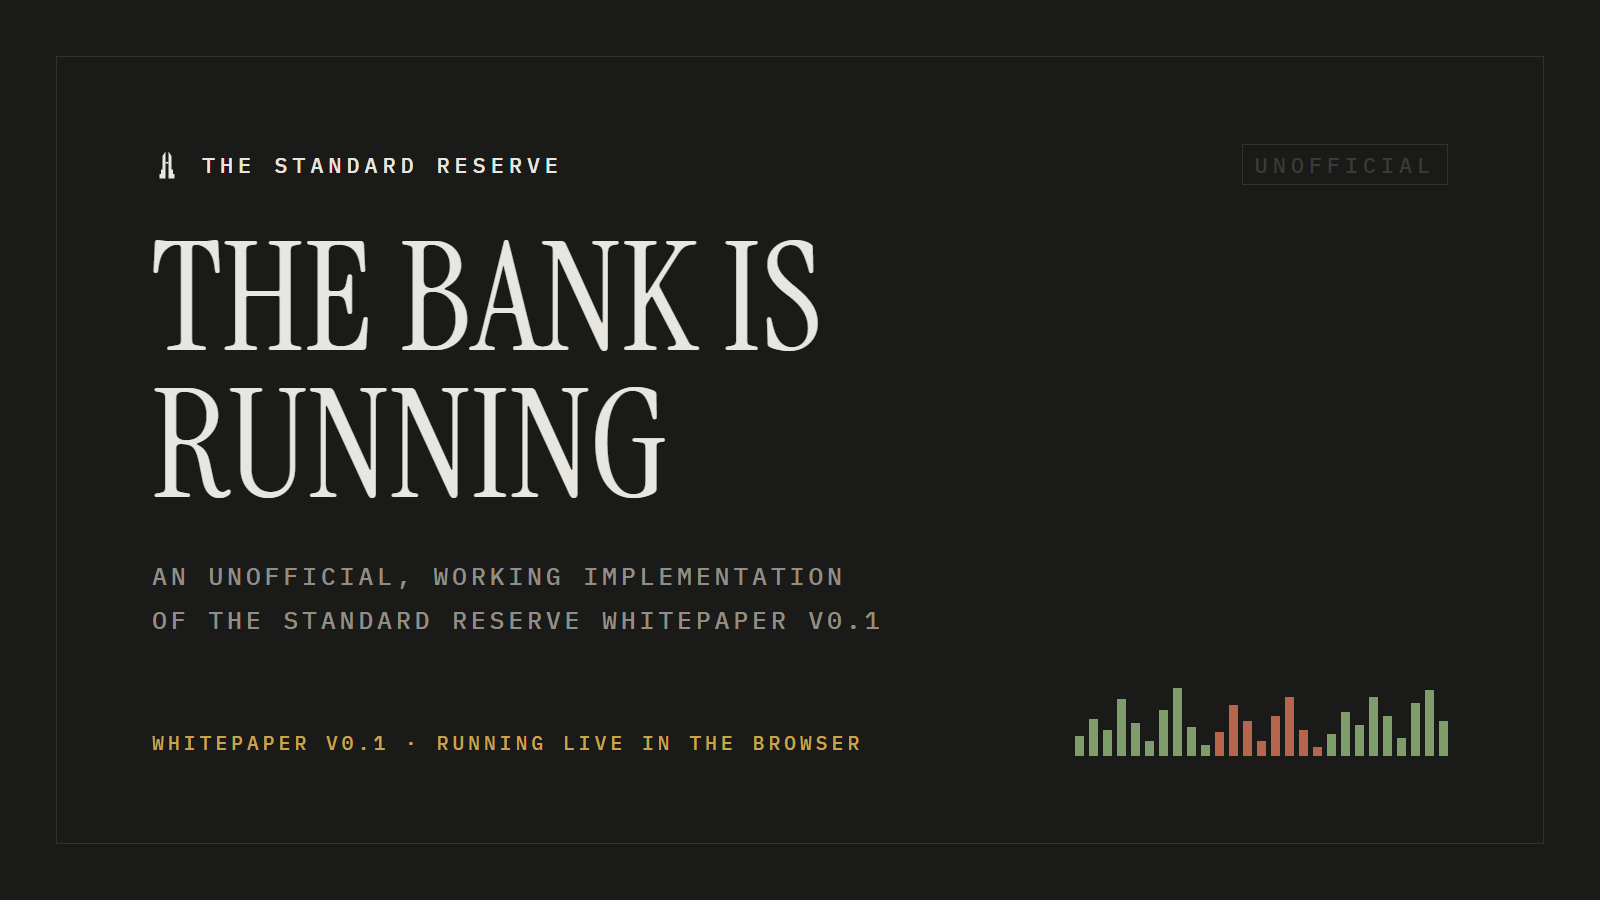
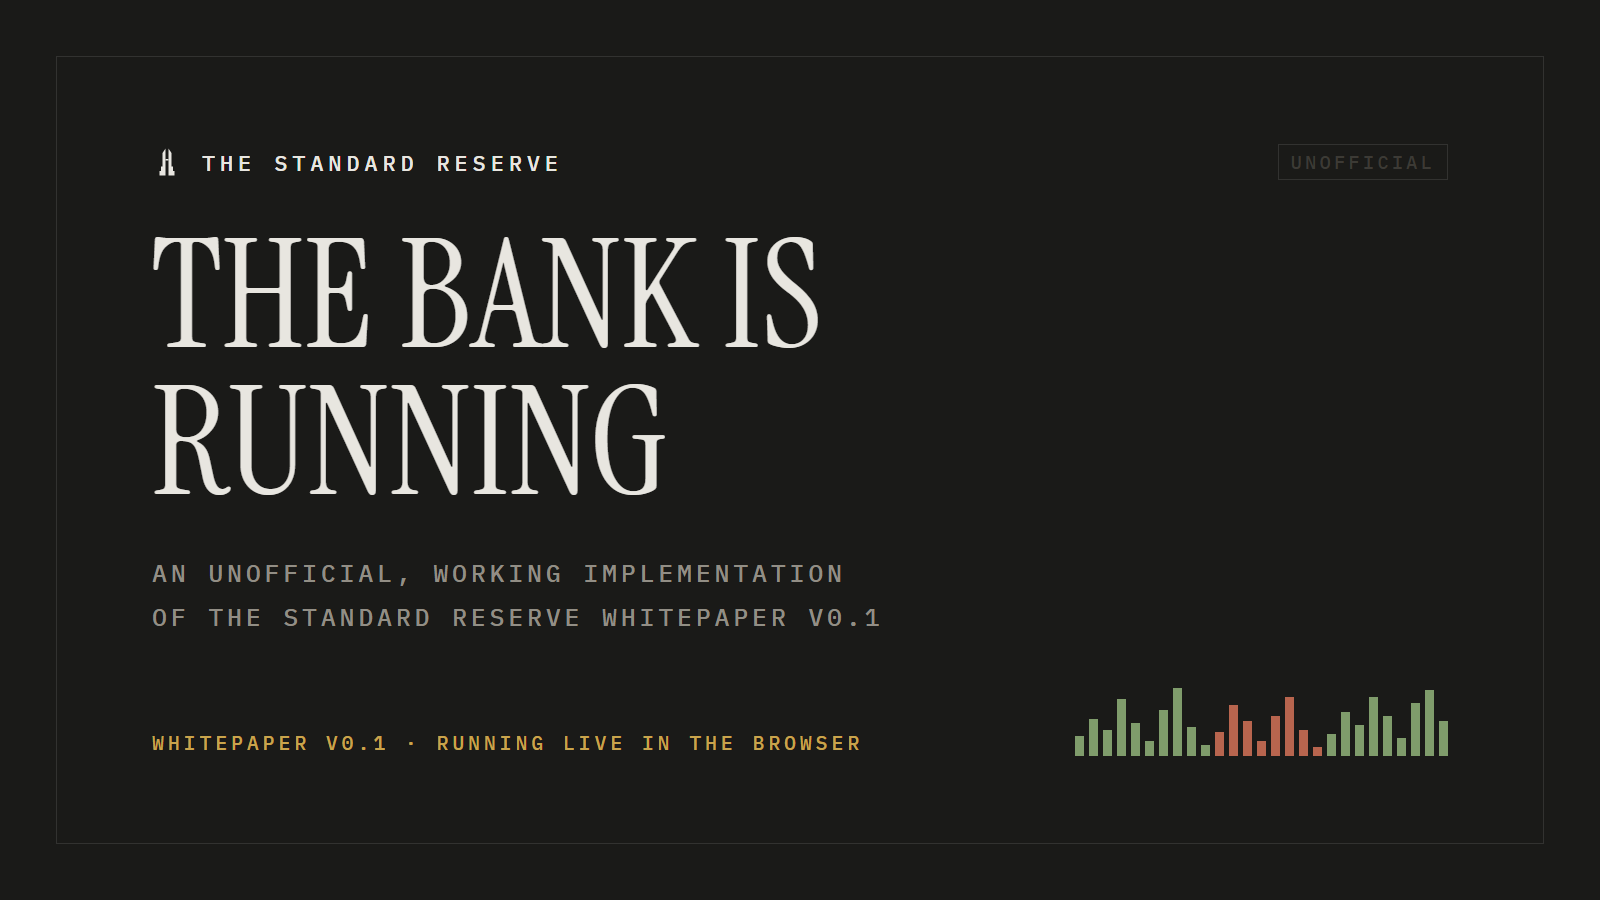
Make the share card reproducible, and put the font caching rule on record
The card was generated from a scratch file that lived outside the repository,
so nothing here could regenerate it and no evidence survived about which
monospace it had used. Its source did declare IBM Plex Mono, but the only
assertion at generation time covered the serif, which is not proof.

The generator is now `scripts/og.ts`. It reads the two families from
`public/fonts`, inlines them as data URIs so the render cannot reach the
network or fall back silently, force loads every declared face rather than
waiting for a glyph to need one, and refuses to write the file unless all of
them are present and the rendered elements resolve to the right families. The
first run of that guard caught its own subtlety: the card sets no text at mono
400, so that face was never loaded and the check was false until the load was
forced.

Fonts are served unhashed and immutable for a year, which makes editing one in
place unfixable for anyone who already cached it. CLAUDE.md records the rule,
the three places a new filename has to be updated, and the byte sizes of the
four current files as a baseline that makes an in place edit visible.

diff --git a/scripts/og.ts b/scripts/og.ts
@@ -1,0 +1,131 @@
+/**
+ * Regenerates public/og.png, the card a shared link renders.
+ *
+ * Hermetic on purpose. The two faces are read from public/fonts and inlined as
+ * data URIs, so the render cannot silently fall back to a system font and does
+ * not touch the network. Both families are asserted before the screenshot is
+ * taken, because an earlier version of this asset was produced with only the
+ * serif checked and there was no way afterwards to prove which monospace had
+ * actually been used.
+ *
+ * Playwright is not a dependency of this project: it would make every install
+ * and every CI run download a browser for an image that changes almost never.
+ * Run this with playwright available, for example
+ *   npm i -D playwright && npx playwright install chromium && npm run og
+ * and then drop it again.
+ */
+import { readFileSync, writeFileSync } from 'node:fs';
+import { resolve } from 'node:path';
+
+const ROOT = resolve(import.meta.dirname, '..');
+const FONTS = resolve(ROOT, 'public/fonts');
+const OUT = resolve(ROOT, 'public/og.png');
+
+const WIDTH = 1600;
+const HEIGHT = 900;
+
+/** The exact faces the site itself serves. Keep in step with styles.css. */
+const FACES = [
+  { family: 'Instrument Serif', weight: 400, file: 'instrument-serif-400-latin.woff2' },
+  { family: 'IBM Plex Mono', weight: 400, file: 'ibm-plex-mono-400-latin.woff2' },
+  { family: 'IBM Plex Mono', weight: 500, file: 'ibm-plex-mono-500-latin.woff2' },
+] as const;
+
+function faceCss(): string {
+  return FACES.map(({ family, weight, file }) => {
+    const b64 = readFileSync(resolve(FONTS, file)).toString('base64');
+    return `@font-face{font-family:'${family}';font-style:normal;font-weight:${weight};src:url(data:font/woff2;base64,${b64}) format('woff2');}`;
+  }).join('\n');
+}
+
+/** Net flow bars, so the card says the thing runs rather than that it is a doc. */
+const BARS = [9, 17, 12, 26, 15, 7, 21, 31, 13, 5, -11, -23, -16, -7, -18, -27, -12, -4, 10, 20, 14, 27, 18, 8, 24, 30, 16];
+
+const MARK = `<svg width="30" height="30" viewBox="0 0 20 20" fill="#e8e6e0"><path d="M9 1 L7 4 L7 13 L6 13 L6 16 L5 16 L5 19 L9 19 Z"/><path d="M11 1 L13 4 L13 13 L14 13 L14 16 L15 16 L15 19 L11 19 Z"/><rect x="9" y="8" width="2" height="1"/></svg>`;
+
+function html(): string {
+  return `<!doctype html><html><head><meta charset="utf-8"><style>
+${faceCss()}
+*{box-sizing:border-box;margin:0}
+body{width:${WIDTH}px;height:${HEIGHT}px;background:#1a1a18;color:#e8e6e0;
+  font-family:'IBM Plex Mono',monospace;overflow:hidden;position:relative;
+  -webkit-font-smoothing:antialiased;text-rendering:optimizeLegibility;
+  font-variant-numeric:tabular-nums}
+.frame{position:absolute;inset:56px;border:1px solid rgba(232,230,224,.12)}
+.pad{position:absolute;inset:56px;padding:88px 96px;display:flex;flex-direction:column;justify-content:space-between}
+.top{display:flex;align-items:center;justify-content:space-between}
+.mark{display:flex;align-items:center;gap:20px}
+.mark svg{display:block}
+.mark span{font-size:22px;font-weight:500;letter-spacing:.22em}
+.tag{font-size:19px;font-weight:500;letter-spacing:.16em;color:#3c3a35;border:1px solid rgba(232,230,224,.12);padding:5px 12px}
+h1{font-family:'Instrument Serif',serif;font-weight:400;font-size:150px;line-height:.98;letter-spacing:.005em}
+.sub{font-size:25px;font-weight:500;letter-spacing:.15em;color:#928e85;line-height:1.75;margin-top:34px}
+.foot{display:flex;align-items:flex-end;justify-content:space-between}
+.meta{font-size:20px;font-weight:500;letter-spacing:.19em;color:#c9a44c}
+.strip{display:flex;align-items:flex-end;gap:5px;height:74px}
+.strip i{width:9px;background:#7f9c6b}
+.strip i.d{background:#b8654e}
+</style></head><body>
+<div class="frame"></div>
+<div class="pad">
+  <div class="top">
+    <div class="mark">${MARK}<span>THE STANDARD RESERVE</span></div>
+    <span class="tag">UNOFFICIAL</span>
+  </div>
+  <div>
+    <h1>THE BANK IS<br>RUNNING</h1>
+    <div class="sub">AN UNOFFICIAL, WORKING IMPLEMENTATION<br>OF THE STANDARD RESERVE WHITEPAPER V0.1</div>
+  </div>
+  <div class="foot">
+    <div class="meta">WHITEPAPER V0.1 · RUNNING LIVE IN THE BROWSER</div>
+    <div class="strip">${BARS.map((v) => `<i class="${v < 0 ? 'd' : ''}" style="height:${Math.abs(v) * 2.2}px"></i>`).join('')}</div>
+  </div>
+</div></body></html>`;
+}
+
+const { chromium } = await import('playwright').catch(() => {
+  throw new Error('playwright is not installed; see the header of this file');
+});
+
+const browser = await chromium.launch();
+const page = await browser.newPage({ viewport: { width: WIDTH, height: HEIGHT }, deviceScaleFactor: 1 });
+await page.setContent(html(), { waitUntil: 'load' });
+// Force every declared face to load rather than waiting for a glyph to need
+// it: that way the assertion below validates each inlined file, not merely the
+// weights this particular layout happens to use.
+await page.evaluate(
+  `Promise.all(${JSON.stringify(FACES.map((f) => `${f.weight} 40px "${f.family}"`))}.map((f) => document.fonts.load(f))).then(() => document.fonts.ready)`,
+);
+
+// Every face must be present, or the card ships in a fallback and nobody notices.
+// Passed as source text: the loader that runs this file rewrites named function
+// expressions and its helper does not exist inside the page.
+const probe = `(() => {
+  const faces = ${JSON.stringify(FACES.map((f) => ({ family: f.family, weight: f.weight })))};
+  const out = {};
+  for (const f of faces) out[f.family + ' ' + f.weight] = document.fonts.check(f.weight + ' 40px "' + f.family + '"');
+  const fam = (sel) => getComputedStyle(document.querySelector(sel)).fontFamily.split(',')[0].replace(/"/g, '');
+  return { checks: out, status: document.fonts.status, h1: fam('h1'), body: fam('.sub'), loaded: document.fonts.size };
+})()`;
+const checks = (await page.evaluate(probe)) as {
+  checks: Record<string, boolean>;
+  status: string;
+  h1: string;
+  body: string;
+  loaded: number;
+};
+
+console.log('font status      :', checks.status, `(${checks.loaded} faces registered)`);
+console.log('serif element    :', checks.h1);
+console.log('monospace element:', checks.body);
+for (const [k, v] of Object.entries(checks.checks)) console.log(`check ${k.padEnd(22)} ${v}`);
+
+const missing = Object.entries(checks.checks).filter(([, v]) => !v).map(([k]) => k);
+if (missing.length) throw new Error(`refusing to write og.png, faces unavailable: ${missing.join(', ')}`);
+if (checks.h1 !== 'Instrument Serif') throw new Error(`h1 resolved to ${checks.h1}`);
+if (checks.body !== 'IBM Plex Mono') throw new Error(`mono text resolved to ${checks.body}`);
+
+const png = await page.screenshot({ type: 'png' });
+writeFileSync(OUT, png);
+console.log(`wrote ${OUT} ${png.length}B ${WIDTH}x${HEIGHT}`);
+await browser.close();

diff --git a/CLAUDE.md b/CLAUDE.md
@@ -1,0 +1,58 @@
+# THE BANK IS RUNNING, working notes
+
+Standing rules for anyone, human or otherwise, changing this repository.
+
+## Fonts are immutable once shipped
+
+The four font files under `public/fonts/` are served **unhashed** with
+`Cache-Control: public, max-age=31536000, immutable` (see `vercel.json`). A
+browser that has fetched one of these paths will not ask about it again for a
+year, and the immutable directive tells it not to revalidate even on a reload.
+
+Therefore: **never change the contents of a font file in place.** A reader who
+already has the old bytes cached would keep them for up to a year while the
+stylesheet expects the new ones, and there is no way to force a refresh.
+
+Any content change to a font, including resubsetting, adding a weight, changing
+the foundry build, or reoptimising the file, requires all three of:
+
+1. A new filename carrying a version suffix, for example
+   `ibm-plex-mono-400-latin-v2.woff2`. Never reuse a retired name.
+2. The matching `src: url(...)` updated in the `@font-face` block at the top of
+   `src/styles.css`.
+3. The matching `href` updated in the `rel="preload"` links in `index.html`,
+   for the two faces that are preloaded.
+
+`scripts/og.ts` reads these files by name as well, so update the `FACES` list
+there too. Retired files may be deleted from the repository once the new ones
+ship; the caching rule applies to the path, not to the file's presence.
+
+### Frozen baseline
+
+These are the files and byte sizes currently shipped. If a file's size differs
+from this table, it was edited in place and the rule above was broken.
+
+| File | Bytes |
+| --- | --- |
+| `public/fonts/ibm-plex-mono-300-latin.woff2` | 14748 |
+| `public/fonts/ibm-plex-mono-400-latin.woff2` | 14708 |
+| `public/fonts/ibm-plex-mono-500-latin.woff2` | 14888 |
+| `public/fonts/instrument-serif-400-latin.woff2` | 21032 |
+
+Total 65376 bytes. Both families are SIL Open Font License; the latin subsets
+were taken from the Google Fonts CDN and are redistributed under that licence.
+
+Weights are not arbitrary: the stylesheets reference IBM Plex Mono 300, 400 and
+500 and Instrument Serif 400, and nothing else. There is no italic and no
+weight 600. Adding a weight means adding a file, which means the versioning
+rule above.
+
+Chinese ships no webfont. CJK falls through the system stack declared in the
+`--cjk` custom property, and the `unicode-range` on every `@font-face` excludes
+CJK so the latin faces are never asked to render it.
+
+## Evidence
+
+A claim that a change was applied is only settled by the committed content.
+Prove it with `git show <hash>:<path>` or `git grep <pattern> <hash>`, not from
+the output of the script that made the change.
